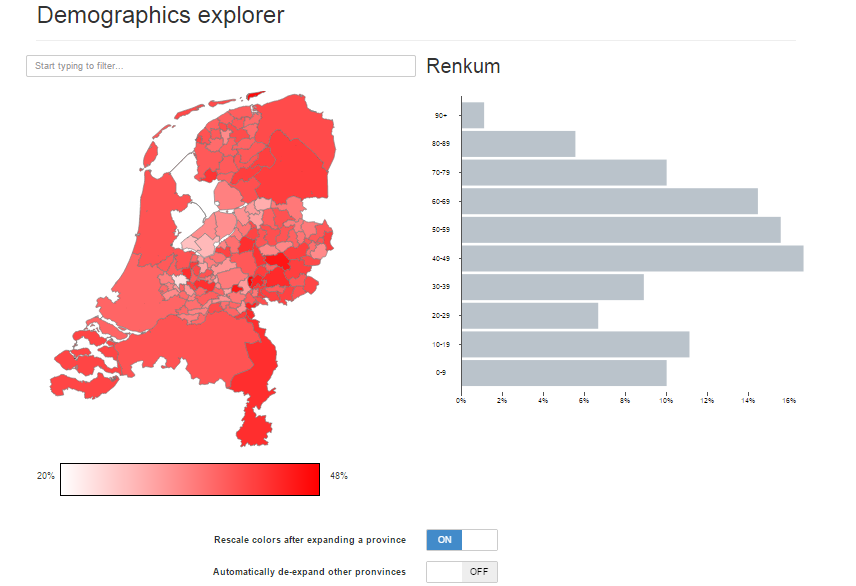
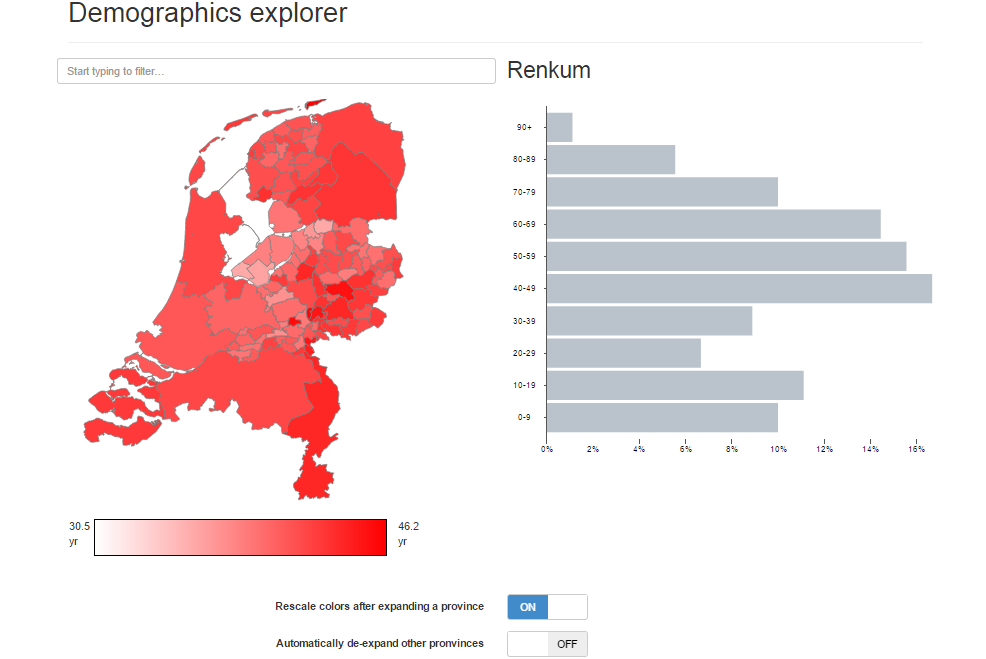
Goede main sorry Tim

diff --git a/assignment1/application/js/main.js b/assignment1/application/js/main.js
@@ -37,8 +37,8 @@
 			maxValue = d3.max(values);
 			linearColorScale.domain([minValue, maxValue]);
 			$(".legendBar").css('background', '-webkit-linear-gradient(left, ' + linearColorScale(minValue) + ', ' + linearColorScale(maxValue) + ')');
-			$("#legendMin").text(parseInt(minValue, 10));
-			$("#legendMax").text(parseInt(maxValue, 10));
+			$("#legendMin").text(parseFloat(minValue/100, 10).toFixed(1));
+			$("#legendMax").text(parseFloat(maxValue/100, 10).toFixed(1));
 		}
 
 		reloadData = function () {
@@ -76,7 +76,7 @@
 					});
 				})
 				.append("title").text(function (d) {
-					return d.parent.getName() + ": " + parseInt(d.parent.getValue(), 10) + "% 50 jaar of ouder";
+					return "Average age in " + d.parent.getName() + " is " + parseFloat(d.parent.getValue()/100).toFixed(1);
 				});
 		};
 
